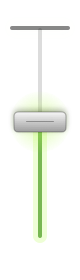
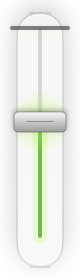
Add a slim contrast backing to the pull cord

diff --git a/Sources/Tendedero/HoverHintPanel.swift b/Sources/Tendedero/HoverHintPanel.swift
@@ -124,8 +124,32 @@ private struct HoverHintView: View {
     let progress: Double
 
     var body: some View {
-        PullCord(progress: progress)
-            .frame(width: 40, height: 140)
+        ZStack(alignment: .top) {
+            // A very slim frosted backing. It is the contrast layer that keeps
+            // the cord legible over a light browser tab bar or a dark editor,
+            // without becoming a large panel again.
+            RoundedRectangle(cornerRadius: 11, style: .continuous)
+                .fill(.ultraThinMaterial)
+                .frame(width: 22, height: 126)
+                .overlay(
+                    RoundedRectangle(cornerRadius: 11, style: .continuous)
+                        .stroke(
+                            LinearGradient(colors: [.white.opacity(0.55), .white.opacity(0.12)],
+                                           startPoint: .top, endPoint: .bottom),
+                            lineWidth: 0.75)
+                )
+                .overlay(
+                    RoundedRectangle(cornerRadius: 11, style: .continuous)
+                        .stroke(.black.opacity(0.14), lineWidth: 0.5)
+                        .padding(-0.5)
+                )
+                .shadow(color: .black.opacity(0.22), radius: 7, y: 3)
+                .offset(y: 7)
+
+            PullCord(progress: progress)
+                .frame(width: 40, height: 140)
+        }
+        .frame(width: 40, height: 140)
     }
 }
 
@@ -189,6 +213,7 @@ private struct PullCord: View {
                     .fill(warm ? Color.orange : Color.primary.opacity(0.55))
                     .frame(width: 30, height: 2)
                     .position(x: mid, y: top)
+                    .shadow(color: .black.opacity(0.24), radius: 1, y: 0.5)
                     .shadow(color: warm ? Color.orange.opacity(0.7) : glowColor.opacity(0.2),
                             radius: 3)
 

diff --git a/README-DEV.md b/README-DEV.md
@@ -8,12 +8,19 @@
 
 ![带跟随光晕的极简拉绳提示](docs/images/dev-hint.png)
 
+深色模式叠在浅色浏览器标题栏上的对比效果：
+
+![深色模式在浅色背景上的隔离效果](docs/images/dev-hint-dark.png)
+
 - 热区是屏幕顶部正中间的一块区域：宽约 320 pt，从屏幕最上沿向下约 144 pt。
 - 指针进入热区后只会出现一根**极简垂直拉绳**，不会立即放下晾衣架，也**不显示任何文字**。
-- 整根拉绳只有三个元素：绳、铝制小夹子、顶部短横线目标；没有玻璃底板、虚线轮廓或额外箭头。
+- 整根拉绳只有三个主体元素：绳、铝制小夹子、顶部短横线目标；没有虚线轮廓或额外箭头。
+- 后面加了一条很窄的 **22 × 126 磨砂玻璃背条**，只用于把拉绳和后面的窗口隔开；它不是上一版的大玻璃底板，整体尺寸仍是 40 × 140。
+- 顶部目标线额外加了深色描边阴影，浅色标题栏上也能看清。
 - 夹子随鼠标向上爬，绳子的彩色部分显示已经爬过的距离；顶部短横线就是唤醒阈值。
 - 阈值行程为 144 pt；接近阈值时绳子和夹子转为橙色并微微发亮。
 - 拉绳只有约 **40 × 140**，比上一版 64 × 220 小很多；全部矢量绘制，Retina 下清晰，不做动态放大，所以结束后不需要恢复任何缩放状态。
+- 背条只负责隔离背景，不会随着悬停放大；结束后随拉绳一起立即隐藏。
 - 夹子周围有一圈**跟随光晕**：色相随进度从青绿过渡到橙色，亮度和半径也逐渐增强；绳子已爬过的部分带一条柔和光尾。光晕跟着夹子走，不是固定装饰。
 - 进入顶部拉绳区域时，光标换成自定义的**上拉箭头**（2× Retina 位图）；鼠标移到照片上则变成**手形光标**。离开区域、唤醒、收绳或鼠标进入菜单栏其他位置时立刻恢复系统光标。
 - 空绳时不显示拉绳提示，避免没有内容可拉。
